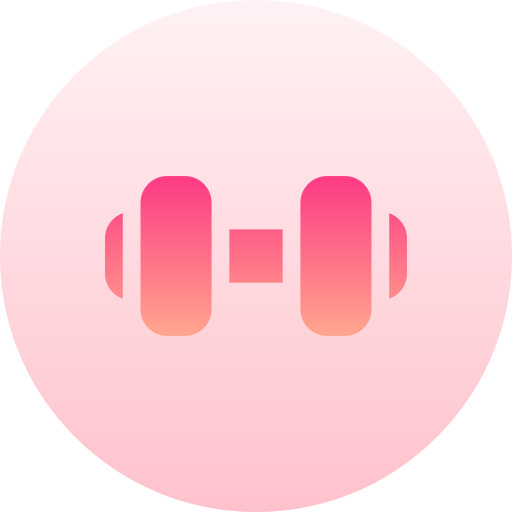
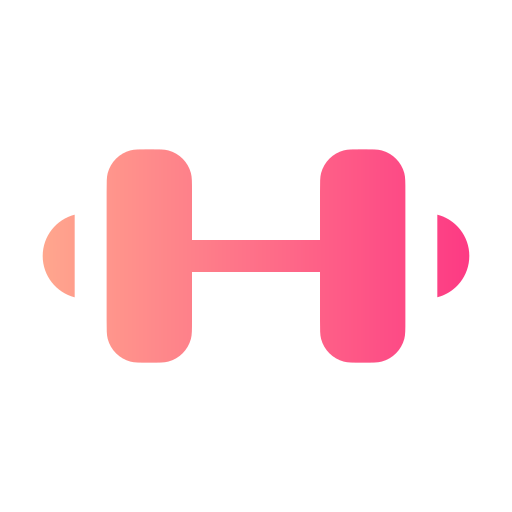
matching page and nav made

diff --git a/client/src/components/profilecard/Profile_card.jsx b/client/src/components/profilecard/Profile_card.jsx
@@ -1,9 +1,74 @@
 import React from 'react'
+import { Link } from 'react-router-dom'
+import './profile_card.css'
 
 export default function Profile_card() {
   return (
-    <div>
-      
+    <>
+    <Link to={'/'}>
+      <button className='back_btn'><img src="src\assets\arrow_left.png" alt="" /></button>
+    </Link>
+
+    <Link to={''}>
+      <button className="settings_btn">
+        <img src="src/assets/profile_card/panel.png" alt="" />
+      </button>
+    </Link>
+
+    <div className='profile_card_container'>
+      <div className="profile_card_image_container">
+        <img src="src/assets/placeholder.jpg" alt="" className='profile_card_image'/>
+        <h1 className="profile_card_name_age">Sven, 21</h1>
+        <div className="summary_container">
+          <div className="tags_container">
+            <div className="looking_container">
+              <img src="src/assets/profile_card/magnifying_glass.png" alt="" />
+              <p>Looking for friends</p>
+            </div>
+            <div className="location_container">
+              <img src="src/assets/profile_card/gps.png" alt="" />
+              <p>Within 10km</p>
+            </div>
+          </div>
+          <div className="label_container">
+            <div className="label_1 labels">Boxing</div>
+            <div className="label_2 labels">Fitness</div>
+          </div>
+        </div>
+      </div>
+      <div className="profile_card_bio_container">
+          <p>Lorem ipsum dolor, sit amet consectetur adipisicing elit. Quaerat libero aliquid sit facere asperiores animi consequatur perspiciatis.</p>
+          <div className="bio_tags_container">
+            <div className="bio_tag_1">
+              <img src="src/assets/profile_card/meal.png" alt="" />
+              <p className='bio_tag_text'>
+                Favorite meal: Pizza
+              </p>
+            </div>
+            <div className="bio_tag_2">
+              <img src="src/assets/profile_card/medal.png" alt="" />
+              <p>
+                Fitness level: Advanced
+              </p>
+            </div>
+            <div className="bio_tag_3">
+              <img src="src/assets/profile_card/clock.png" alt="" />
+              <p>
+                preffered workout time: 16:00 - 18:00
+              </p>
+            </div>
+            <p className="bio_more_info">More info</p>
+          </div>
+          <div className="reject_match_btns">
+            <button>
+              <img src="src/assets/profile_card/reject.png" alt="" />
+            </button>
+            <button>
+              <img src="src/assets/profile_card/love.png" alt="" />
+            </button>
+          </div>
+      </div>
     </div>
+    </>
   )
 }

diff --git a/client/src/components/profilecard/profile_card.css b/client/src/components/profilecard/profile_card.css
@@ -1,0 +1,141 @@
+.back_btn, .settings_btn {
+    border: none;
+    background: none;
+    position: absolute;
+    z-index: 99;
+    top: 0;
+
+}
+
+.back_btn {
+    left: 0;
+}
+
+.settings_btn {
+    right: 2vw;
+}
+
+.back_btn img, .settings_btn img {
+    width: 10vw;
+}
+
+.profile_card_container {
+    width: 95vw;
+    height: max-content;
+    background-color: white;
+    border-radius: 10px;
+    box-shadow: black 1px 1px 4px 0px;
+}
+
+.profile_card_image_container {
+    position: relative;
+    height: 55vh;
+}
+
+.profile_card_image {
+    width: 100%;
+    height: 100%;
+    border-radius: 10px;
+    object-fit: cover;
+}
+
+.profile_card_name_age {
+    position: absolute;
+    top: 0;
+    padding: 1%;
+    font-size: 1.5rem;
+}
+
+.summary_container {
+    position: absolute;
+    left: 0; 
+    right: 0; 
+    bottom: 2vh;
+    margin: auto; 
+    width: 98%;
+    border-radius: 10px;
+    display: flex;
+    justify-content: space-between;
+    background-color: #FFF5E9;
+    padding: 1%;
+    box-shadow: black 1px 1px 4px 0px;
+}
+
+.summary_container img{
+    width: 5vw;
+    margin-right: 1vw;
+}
+
+.tags_container div{
+    display: flex;
+}
+
+.label_container {
+    display: flex;
+    gap: 2vw;
+    align-items: center;
+    
+}
+
+.location_container {
+    color: gray;
+    font-size: 80%;
+}
+
+.labels {
+    width: max-content;
+    height: min-content;
+    border-radius: 20px;
+    color: white;
+    padding: 7px;
+    gap: 1vw;
+    font-size: 90%;
+
+}
+
+.label_1 {
+    background-color: #1081E0;
+}
+
+.label_2 {
+    background-color: #FD5386;
+}
+
+.profile_card_bio_container {
+    padding: 0 1vw;
+}
+
+.bio_tags_container img{
+    width: 5vw;
+}
+
+.bio_tags_container {
+    padding: 0 5px;
+}
+
+.bio_tags_container div{
+    display: flex;
+    padding: 5px 0;
+    gap: 1vw;
+}
+
+.bio_more_info {
+    color: gray;
+    text-align: center;
+}
+
+.reject_match_btns {
+    display: flex;
+    justify-content: center;
+    gap: 10vw;
+    padding: 1vh 0;
+}
+
+.reject_match_btns button{
+    border: none;
+    background: none;
+}
+
+.reject_match_btns img{
+    width: 15vw;
+}

diff --git a/client/src/main.jsx b/client/src/main.jsx
@@ -1,14 +1,25 @@
 import { StrictMode } from 'react'
 import { createRoot } from 'react-dom/client'
-import { createBrowserRouter, RouterProvider } from 'react-router-dom'
+import { createBrowserRouter, RouterProvider, Link } from 'react-router-dom'
+
+//css
+import './main.css'
 
 //Components
 import Header from './components/header/Header'
+import Profile_card from './components/profilecard/Profile_card'
+import Nav from './components/nav/Nav'
 
 const router = createBrowserRouter([
-  {path: "/", element: <>
+  {path: "/", element: <div className='feed_container'>
     <Header/>
-  </>},
+    <Nav/>
+  </div>},
+  
+  {path: "/matching", element: <div className='matching_container'>
+    <Header/>
+    <Profile_card/>
+  </div>},
 ])
 
 createRoot(document.getElementById('root')).render(

diff --git a/client/src/components/nav/Nav.jsx b/client/src/components/nav/Nav.jsx
@@ -1,9 +1,30 @@
 import React from 'react'
+import { Link } from 'react-router-dom'
+import './nav.css'
 
 export default function Nav() {
   return (
-    <div>
-      
+    <div className='nav_container'>
+      <Link to={'/'}>
+        <button>
+          <img src="src/assets/nav/feed.png" alt="" />
+        </button>
+      </Link>
+      <Link to={'/matching'}>
+        <button>
+          <img src="src/assets/nav/matching.png" alt="" />
+        </button>
+      </Link>
+      <Link to={'/messages'}>
+        <button>
+          <img src="src/assets/nav/messages.png" alt="" />
+        </button>
+      </Link>
+      <Link to={'/settings'}>
+        <button>
+          <img src="src/assets/nav/settings.png" alt="" />
+        </button>
+      </Link>
     </div>
   )
 }

diff --git a/client/src/components/nav/nav.css b/client/src/components/nav/nav.css
@@ -1,0 +1,17 @@
+.nav_container {
+    display: flex;
+    justify-content: space-evenly;
+    width: 100%;;
+    position: absolute;
+    margin: 1vh 0;
+    bottom: 0;
+}
+
+.nav_container button {
+    border: none;
+    background: none;
+}
+
+.nav_container img {
+    width: 10vw;
+}

diff --git a/client/src/components/header/Header.jsx b/client/src/components/header/Header.jsx
@@ -4,7 +4,7 @@ import './header.css'
 export default function Header() {
   return (
     <div className='header_container'>
-      
+      <img src="src\assets\dumbbell.png" alt="" srcset="" />
     </div>
   )
 }

diff --git a/client/src/components/header/header.css b/client/src/components/header/header.css
@@ -1,0 +1,10 @@
+.header_container {
+    /* height: 7vh; */
+    display: flex;
+    justify-content: center;
+    margin: -1.5vh;
+}
+
+.header_container img{
+    width: 15vw;
+}

diff --git a/client/src/main.css b/client/src/main.css
@@ -18,5 +18,9 @@ body {
     height: 100vh;
 }
 
-
+.matching_container {
+    display: flex;
+    flex-direction: column;
+    align-items: center;
+}
 
